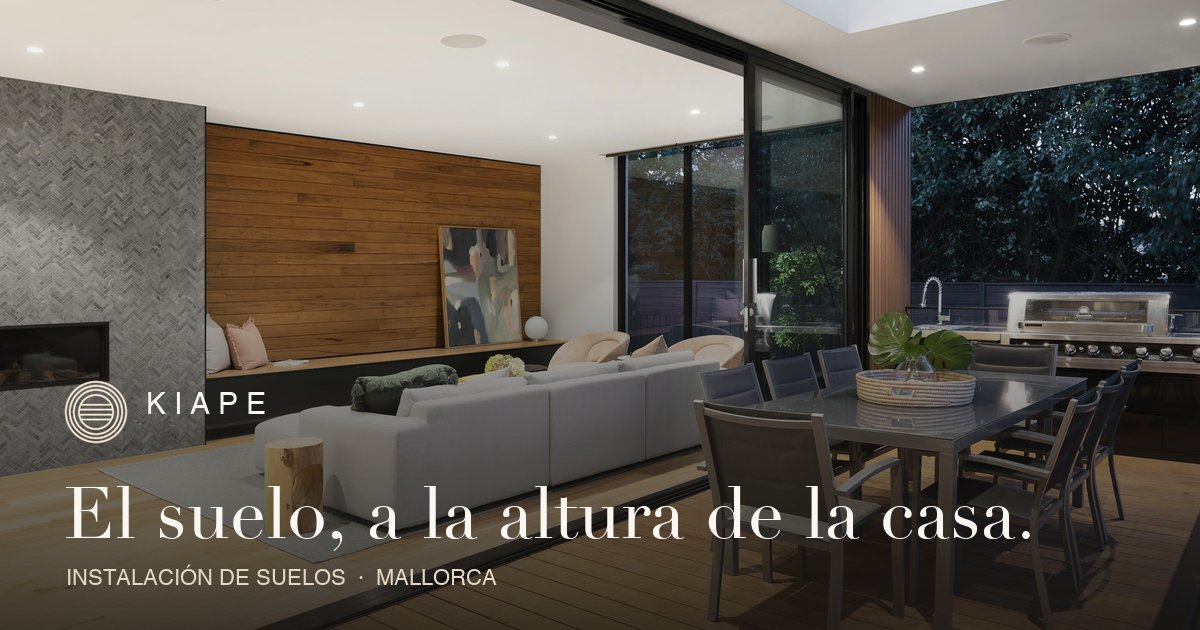
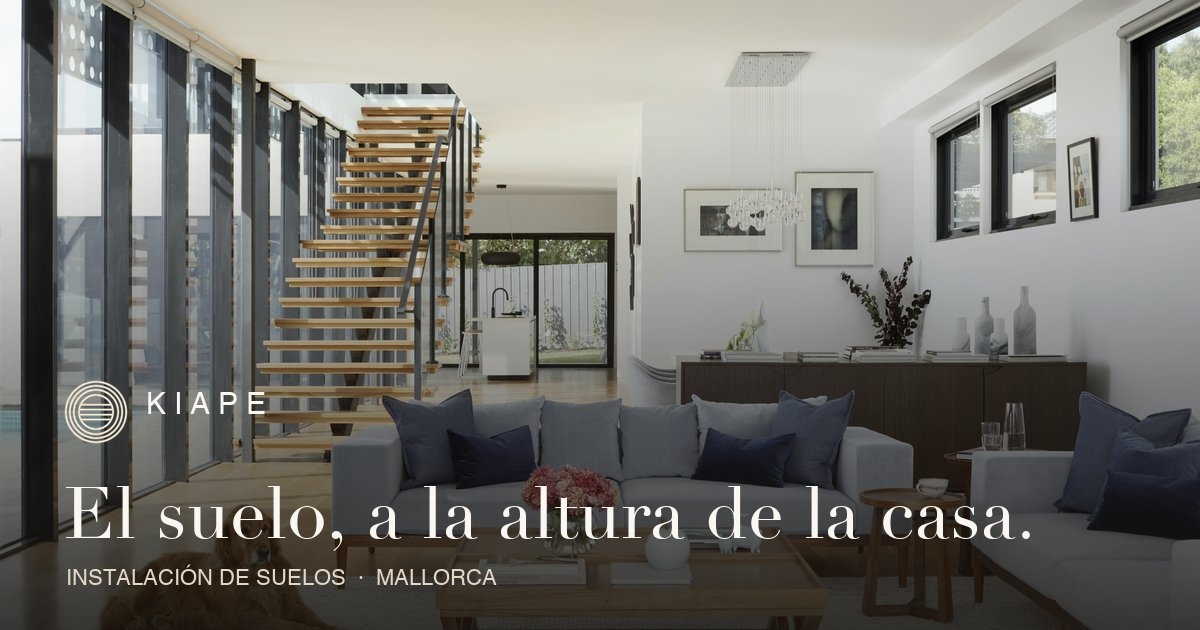
feat: apply landing v2 design review
- Daylight hero with controlled headline breaks and a side scrim for legibility
- Trust line under hero CTAs (free visit, fixed quote, 24h reply)
- CTA band after the method section
- Instagram section and header icon for @kiape.suelos (static grid, no embed)
- Mobile: bottom CTA bar visible from the first screen, no duplicate header CTA
- Method step 1 becomes 'Visita con muestras'; OG image regenerated

diff --git a/src/config.ts b/src/config.ts
@@ -12,12 +12,13 @@ export const site = {
     'Instalación de tarima, parquet en espiga, porcelánico de gran formato, vinilo y laminado en Mallorca. Un único equipo: medición, preparación del soporte y acabado. Presupuesto cerrado.',
   locale: 'es_ES',
   region: 'Mallorca, Illes Balears',
-  // TODO(kiape): confirm WhatsApp number, Instagram handle and public Facebook URL.
+  // TODO(kiape): confirm WhatsApp number and public Facebook URL.
   phone: '+34613151919',
   phoneDisplay: '+34 613 151 919',
   whatsapp: '34613151919',
   email: 'info@kiape.co',
-  instagram: '', // e.g. 'https://www.instagram.com/kiape.co'
+  instagram: 'https://www.instagram.com/kiape.suelos',
+  instagramHandle: '@kiape.suelos',
   facebook: '',
   // TODO(kiape): legal data required by LSSI-CE before going live.
   legal: {
@@ -97,8 +98,9 @@ export const materials: {
 
 export const steps = [
   {
-    title: 'Visita y medición',
-    text: 'Vamos a la obra, medimos y revisamos humedad y nivel del soporte. Sin coste ni compromiso.',
+    // TODO(kiape): confirm that samples are brought to the visit.
+    title: 'Visita con muestras',
+    text: 'Medimos, revisamos humedad y nivel del soporte y te llevamos muestras para decidir en casa. Sin coste.',
   },
   {
     title: 'Propuesta cerrada',

diff --git a/README.md b/README.md
@@ -46,8 +46,9 @@ Instagram bio link suggestion: `https://www.kiape.co/?utm_source=instagram&utm_m
 ## Before going live
 
 - [ ] Replace placeholder photos in `src/assets/img/` (Unsplash) with real KIAPE projects — keep the same file names or update `config.ts` / `index.astro`. Regenerate `public/og.jpg`.
-- [ ] Confirm WhatsApp number, Instagram and Facebook URLs in `src/config.ts`.
-- [ ] Validate claims: supply + install, island-wide coverage, "respuesta en 24 h", install times in FAQ.
+- [ ] Confirm WhatsApp number and Facebook URL in `src/config.ts` (Instagram: @kiape.suelos ✓).
+- [ ] Replace the 6 Instagram grid images in `src/components/Instagram.astro` with real posts from @kiape.suelos (static images on purpose: the official embed is heavy and sets third-party cookies).
+- [ ] Validate claims: supply + install, island-wide coverage, "respuesta en 24 h", samples at the visit ("Visita con muestras"), install times in FAQ.
 - [ ] Fill `site.legal` in `src/config.ts` (holder, NIF, address) — used by Aviso legal and Privacidad.
 - [ ] Add real testimonials to `testimonials` in `src/config.ts` — the section stays hidden while empty.
 - [ ] Set `PUBLIC_WEB3FORMS_KEY` and `PUBLIC_GTM_ID` in the hosting environment.
